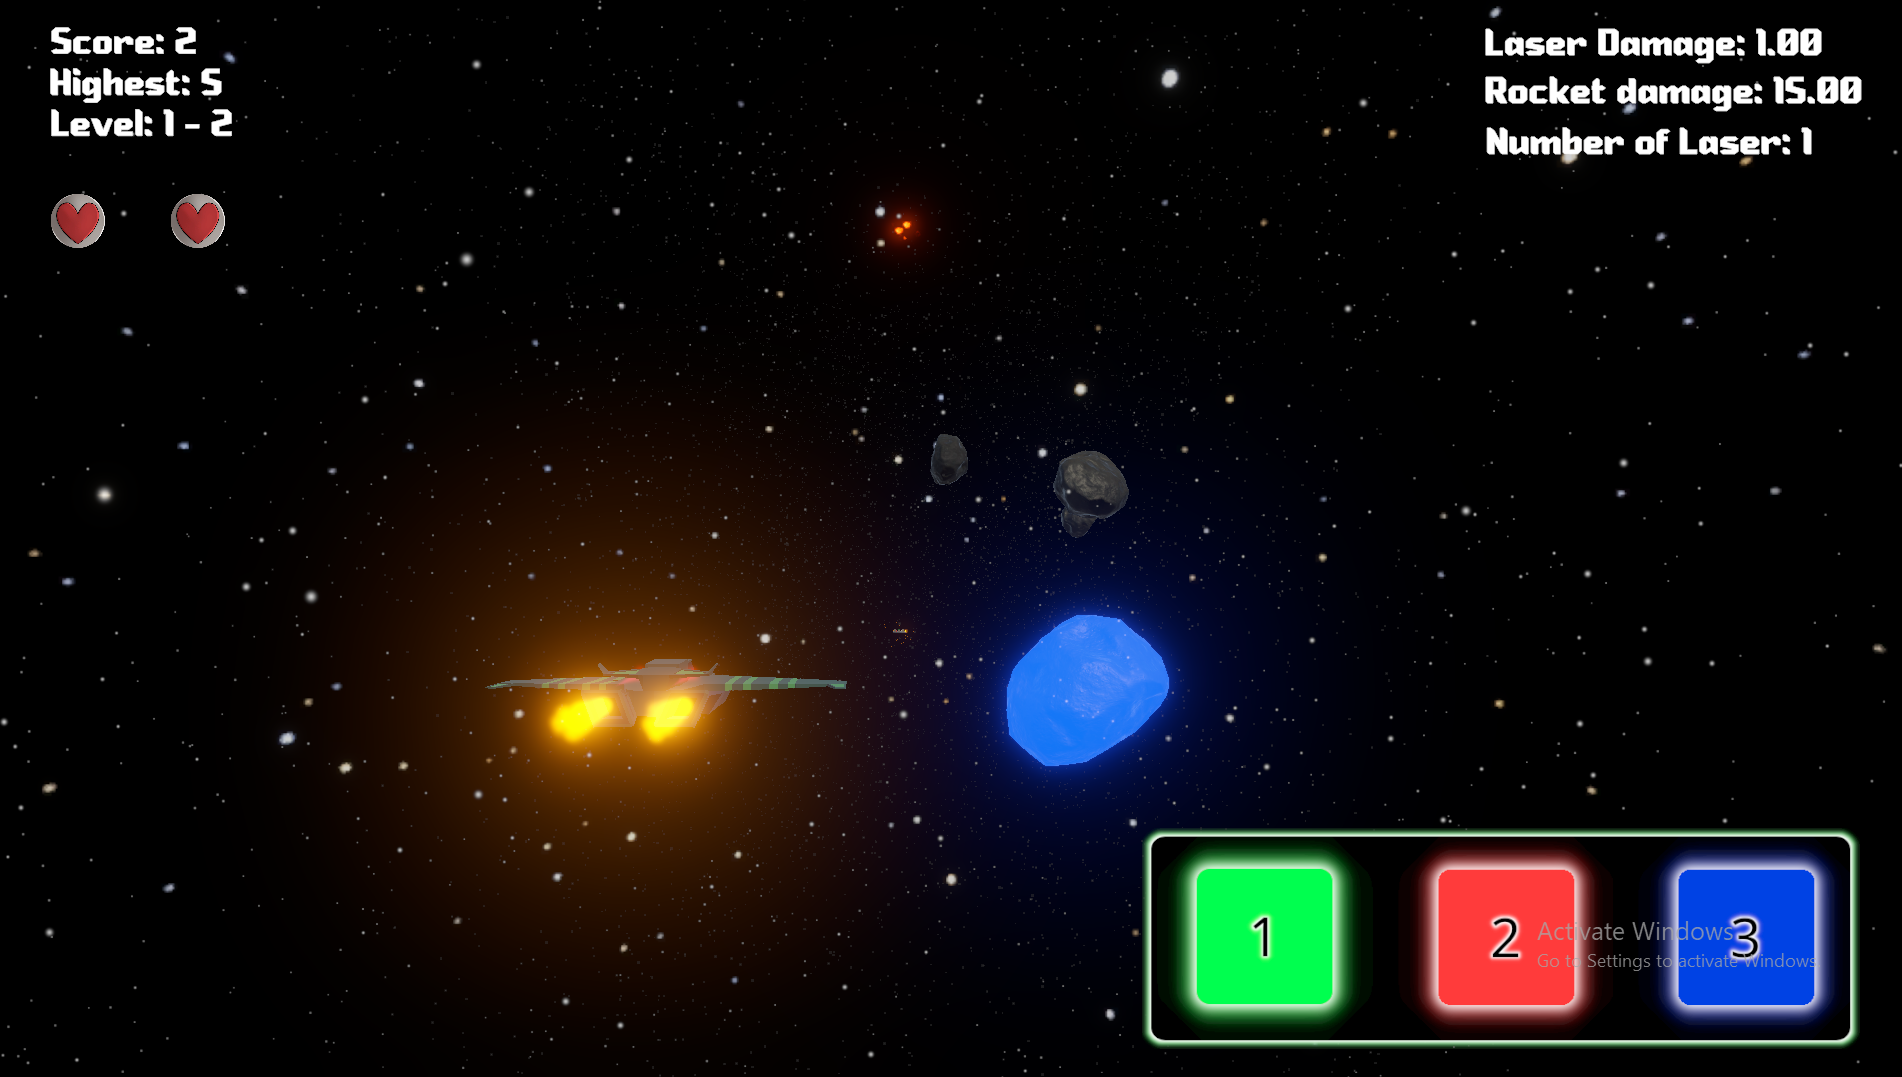
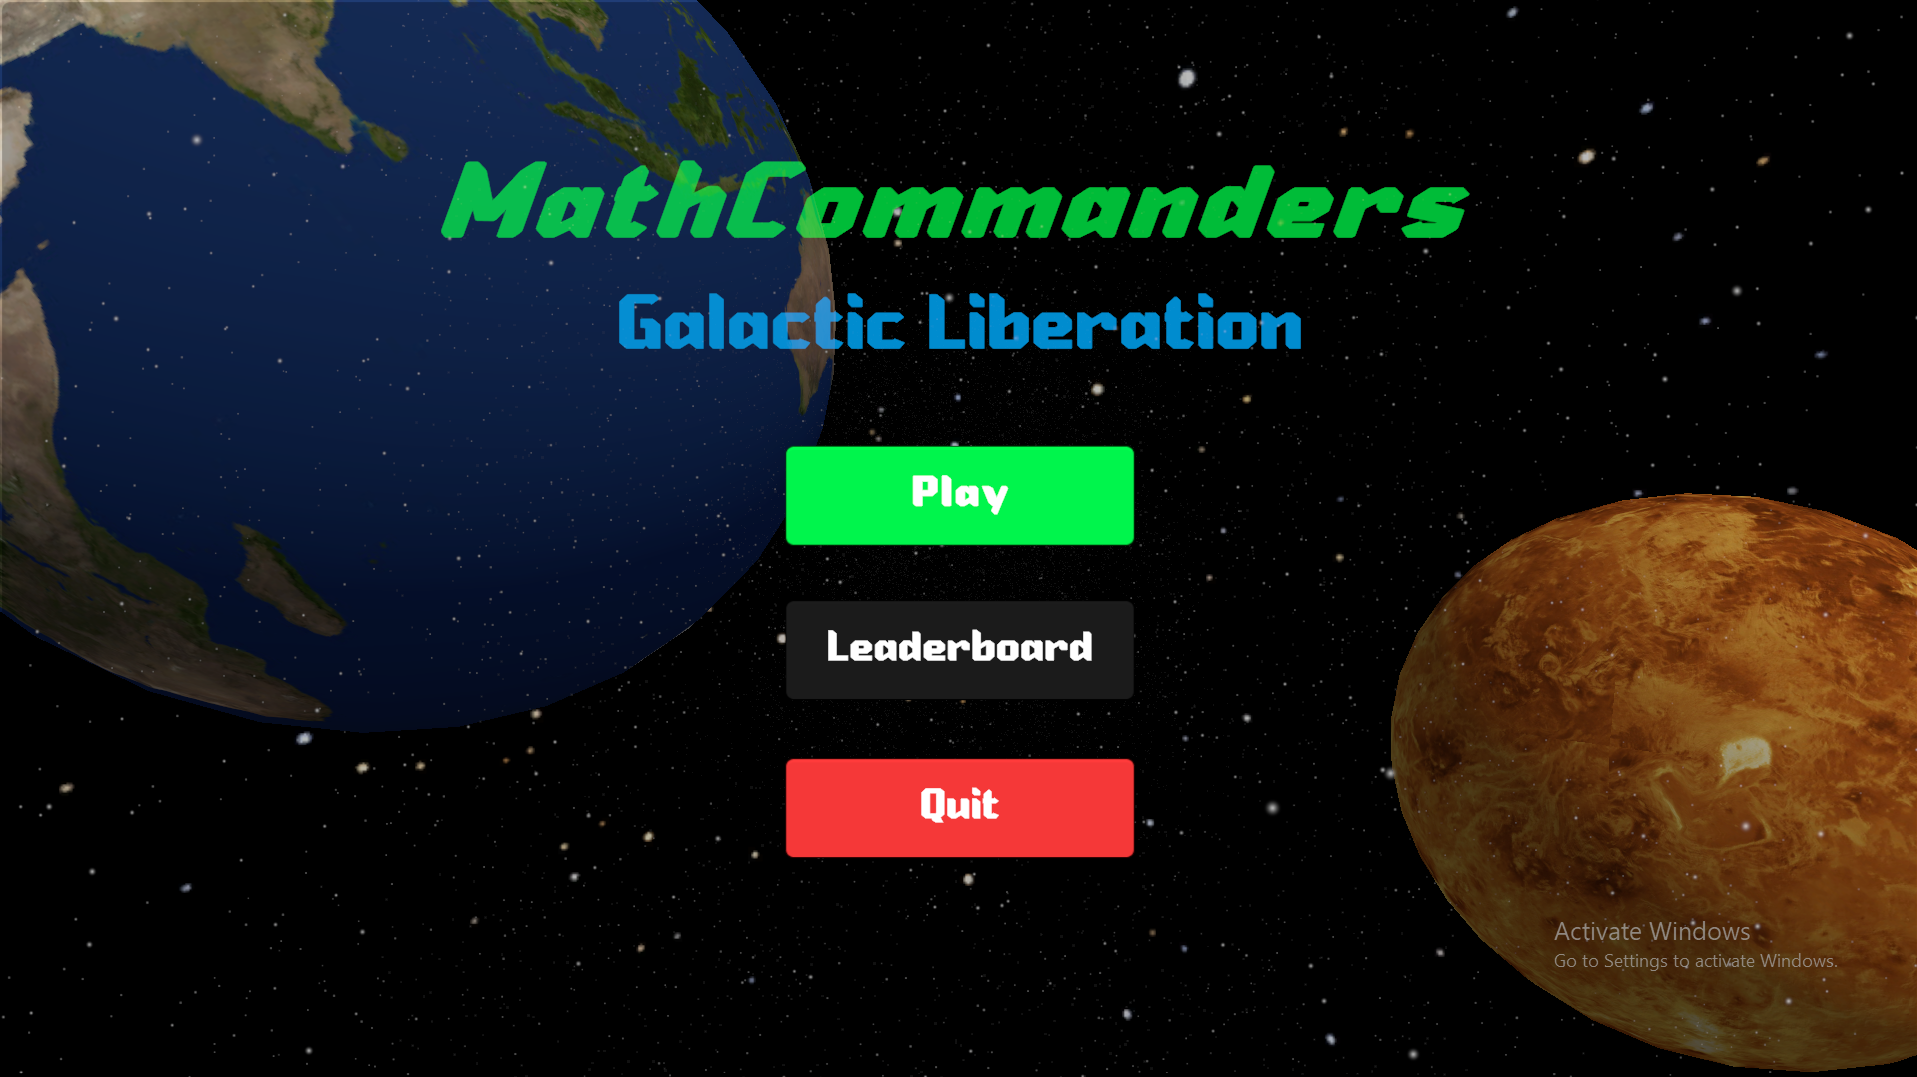
fix: profile image

diff --git a/server/src/utils/googleProfileImage.js b/server/src/utils/googleProfileImage.js
@@ -1,0 +1,53 @@
+const fs = require("fs");
+const path = require("path");
+
+const generateFilename = require("./generateFilename");
+
+const uploadDir = path.join(__dirname, "../uploads/profile");
+
+if (!fs.existsSync(uploadDir)) {
+  fs.mkdirSync(uploadDir, { recursive: true });
+}
+
+const saveGoogleProfileImage = async (imageUrl) => {
+  if (!imageUrl) {
+    return null;
+  }
+
+  const response = await fetch(imageUrl);
+
+  if (!response.ok) {
+    throw new Error("Failed to download Google profile image");
+  }
+
+  const contentType = response.headers.get("content-type");
+
+  if (!contentType?.startsWith("image/")) {
+    throw new Error("Google profile image is not a valid image");
+  }
+
+  const extensionMap = {
+    "image/jpeg": ".jpg",
+    "image/png": ".png",
+    "image/webp": ".webp",
+    "image/gif": ".gif",
+  };
+
+  const extension = extensionMap[contentType] || ".jpg";
+
+  const buffer = Buffer.from(await response.arrayBuffer());
+
+  const filename = generateFilename(extension);
+  const filePath = path.join(uploadDir, filename);
+
+  fs.writeFileSync(filePath, buffer);
+
+  return {
+    url: `/uploads/profile/${filename}`,
+    filePath,
+  };
+};
+
+module.exports = {
+  saveGoogleProfileImage,
+};

diff --git a/server/src/services/auth.service.js b/server/src/services/auth.service.js
@@ -3,6 +3,7 @@ const bcrypt = require("bcrypt");
 const userService = require("./user.service");
 
 const { generateUniqueUsername } = require("../utils/uniqueUsernameGenerator");
+const { saveGoogleProfileImage } = require("../utils/googleProfileImage");
 
 const AppError = require("../utils/AppError");
 
@@ -54,16 +55,22 @@ const findOrCreateGoogleUser = async ({
     userService.isUsernameAvailable,
   );
 
-  return userService.createUser({
+  const user = await userService.createUser({
     username,
     email,
     emailVerified,
     password: null,
-    profileImg: {
-      url: picture || null,
-      filePath: null,
-    },
   });
+
+  if (picture) {
+    const profileImg = await saveGoogleProfileImage(picture);
+
+    user.profileImg = profileImg;
+
+    await user.save();
+  }
+
+  return user;
 };
 
 module.exports = {

diff --git a/server/src/middlewares/upload.middleware.js b/server/src/middlewares/upload.middleware.js
@@ -2,6 +2,8 @@ const multer = require("multer");
 const path = require("path");
 const fs = require("fs");
 
+const generateFilename = require("../utils/generateFilename");
+
 const uploadDir = path.join(__dirname, "../uploads/profile");
 
 if (!fs.existsSync(uploadDir)) {
@@ -15,8 +17,9 @@ const storage = multer.diskStorage({
 
   filename: (req, file, cb) => {
     const extension = path.extname(file.originalname);
+    const filename = generateFilename(extension);
 
-    cb(null, `${req.user._id}${extension}`);
+    cb(null, filename);
   },
 });
 

diff --git a/server/src/services/user.service.js b/server/src/services/user.service.js
@@ -1,3 +1,4 @@
+const env = require("../config/env");
 const bcrypt = require("bcrypt");
 
 const User = require("../models/user.model");
@@ -60,7 +61,7 @@ const getProfileImg = async (userId) => {
   const user = await getUserById(userId);
 
   return {
-    url: user.profileImg.url,
+    url: `${env.baseUrl}${user.profileImg.url}`,
   };
 };
 

diff --git a/client/src/pages/ProfilePage/ProfilePage.jsx b/client/src/pages/ProfilePage/ProfilePage.jsx
@@ -27,7 +27,7 @@ const ProfilePage = () => {
       const response = await getProfileImageAPI();
 
       if (response.url) {
-        setImgSrc(`${import.meta.env.VITE_API_API_URL}${response.url}`);
+        setImgSrc(response.url);
       }
     };
 

diff --git a/server/src/utils/generateFilename.js b/server/src/utils/generateFilename.js
@@ -1,0 +1,7 @@
+const crypto = require("crypto");
+
+const generateFilename = (extension) => {
+  return `${crypto.randomBytes(16).toString("hex")}${extension}`;
+};
+
+module.exports = generateFilename;
